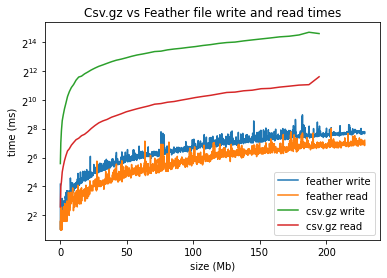
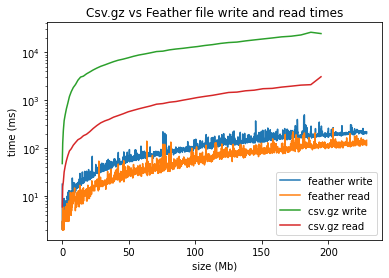
save

diff --git a/Readme.md b/Readme.md
@@ -2,7 +2,7 @@
 
 This is a very simple display on some results of the read/write times of feather and gzip compressed files for different file sizes. It is a "knock out some results in an hour" kind of report, rather than actually comparing the pros and cons of the two file types for different purposes, or under various conditions
 
-After comparing .feather files against .csv.gz, I have found that feather files are significantly faster at reading and writing than gzip compressed .csv files for the test case.
+After comparing .feather files against .csv.gz, I have found that feather files are significantly faster at reading (by a factory about 10) and writing (by a factor of about 100) than gzip compressed .csv files for the test case.
 
 Here are some results after comparing them.
 
@@ -19,7 +19,7 @@ For gzip csv files, reading and writing the same inputs:
 
 ####
 
-Comparison on a log plot (base 2):
+Comparison on a log plot (base 10):
 ####
 <img src='assets/comparison.png'>
 
